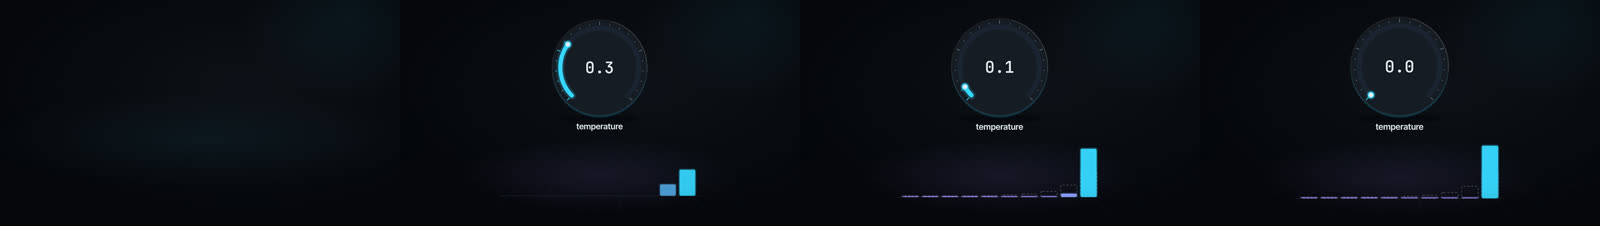
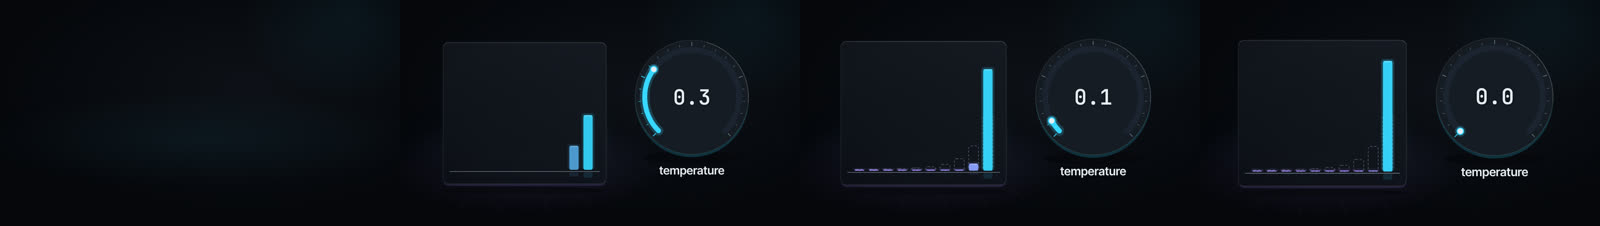
P7 dom-c: SamplingDial implemented (side-by-side dial + acrylic distribution plate, nucleus cut line, textRect; snap PASS det 0 qa 0, baselines pending-critic; perf lite 0.095 / standard 0.086 / hero 0.089 box s/frame; Arabic QA pass)
Claude-Session: https://claude.ai/code/session_01VrU9wxU8GmuhdhWAAHnnQ8

diff --git a/studio/src/components/SamplingDial/SamplingDial.tsx b/studio/src/components/SamplingDial/SamplingDial.tsx
@@ -72,6 +72,18 @@ export const distribution = (temp: number, topp: number | null): {p: number[]; k
   return {p: pr, kept};
 };
 
+/** Layout shared by the view and textRect (box coordinates). One dial: dial on the start (right) side, distribution plate beside it;
+ * 2-3 dials: dials in a row, the plate under them. */
+const layout = (n: number, W: number, H: number) => {
+  const side = n === 1;
+  const cellW = side ? W * 0.44 : Math.min(W / n, 640);
+  const r = side ? Math.min(H * 0.24, cellW * 0.4) : Math.min(cellW * 0.33, H * 0.17);
+  const cy = side ? H * 0.42 : H * 0.25;
+  const x0 = side ? W * 0.765 - cellW / 2 : (W - cellW * n) / 2;
+  const plate = side ? {x: W * 0.05, y: H * 0.14, w: W * 0.47, h: H * 0.72} : {x: W * 0.19, y: H * 0.58, w: W * 0.62, h: H * 0.36};
+  return {side, cellW, r, cy, x0, plate};
+};
+
 export const SamplingDialView: React.FC<DcProps<Props>> = ({props, ctx}) => {
   const t = ctx.frame;
   const P = pf(ctx);
@@ -79,9 +91,9 @@ export const SamplingDialView: React.FC<DcProps<Props>> = ({props, ctx}) => {
   const W = ctx.box.w;
   const H = ctx.box.h;
   const {v, lastT, dec} = dialValues(props, ctx, t);
-  const cellW = Math.min(W / n, 640);
-  const r = Math.min(cellW * 0.33, H * 0.2);
-  const cy = H * 0.27;
+  const L = layout(n, W, H);
+  const {cellW, r, cy, plate} = L;
+  const k = r / 194;
   const ent = prog(ctx, ctx.at, P.arrive);
   const norm = (i: number) => {
     const pr = props.params[i];
@@ -97,17 +109,63 @@ export const SamplingDialView: React.FC<DcProps<Props>> = ({props, ctx}) => {
   const normOf = (j: number) => clamp01((props.params[j].value.value - props.params[j].min) / Math.max(1e-9, props.params[j].max - props.params[j].min));
   const ghost = turns0.length ? distribution(ti >= 0 ? normOf(ti) : 0.5, pi >= 0 ? normOf(pi) : null) : null;
   const ghostE = turns0.length ? prog(ctx, turns0[0].at, P.label) : 0;
-  const maxP = Math.max(...dist.p);
-  const panelY = H * 0.66;
-  const panelH = H * 0.26;
-  const bw = Math.min(88, (W * 0.56) / LOGITS.length - 18);
-  const bgap = 18;
-  const totalBw = LOGITS.length * (bw + bgap) - bgap;
+  const nb = LOGITS.length;
+  const padX = plate.w * 0.07;
+  const slot = (plate.w - padX * 2) / nb;
+  const bw = slot * 0.66;
+  const base = plate.y + plate.h - plate.h * 0.1;
+  const barH = plate.h * 0.76;
+  const col0 = C.signal;
   return (
     <div style={{...boxStyle(ctx), ...shell(ctx)}}>
-      <Floor gid={`sm-${ctx.id}`} w={W} h={H} y={panelY - 20} color={C.violet} pool={0.1} opacity={ent} />
+      <Floor gid={`sm-${ctx.id}`} w={W} h={H} y={plate.y + plate.h * 0.55} color={C.violet} pool={0.12} cx={plate.x + plate.w / 2} opacity={ent} />
+      {/* distribution plate: acrylic glass with a lit top edge, extruded side and contact shadow (ADR-003 LK-F) */}
+      <div style={{position: 'absolute', left: plate.x, top: plate.y + plate.h + 14, width: plate.w, height: plate.h * 0.05, background: C.void, opacity: 0.55 * ent, borderRadius: '50%'}} />
+      <div
+        style={{
+          position: 'absolute',
+          left: plate.x,
+          top: plate.y,
+          width: plate.w,
+          height: plate.h,
+          borderRadius: 28,
+          background: `linear-gradient(205deg, ${C.panel}F2 0%, ${C.ground}E6 100%)`,
+          border: `2px solid ${C.ink}${hex(0.14)}`,
+          boxShadow: `inset 0 2px 0 ${C.ink}${hex(0.2)}, inset -2px 0 0 ${C.ink}${hex(0.08)}, 0 12px 0 -3px ${mix(C.violet, C.void, 0.8)}`,
+          opacity: ent,
+        }}
+      />
+      <svg width={W} height={H} style={{position: 'absolute', left: 0, top: 0, overflow: 'visible'}}>
+        <path d={`M ${plate.x + padX * 0.6} ${base + 8} L ${plate.x + plate.w - padX * 0.6} ${base + 8}`} stroke={C.ink3} strokeOpacity={0.8} strokeWidth={3} strokeLinecap="round" opacity={ent} />
+        {dist.p.map((pv, i) => {
+          const be = prog(ctx, ctx.at + Math.round(((6 + i) * ctx.fps) / 24), P.label);
+          const h = Math.max(5, pv * barH);
+          const x = plate.x + plate.w - padX - (i + 1) * slot + (slot - bw) / 2; // most likely token on the right (reading start)
+          const col = dist.kept[i] ? mix(C.violet, col0, Math.sqrt(pv / Math.max(1e-9, Math.max(...dist.p)))) : C.ink3;
+          const gh = ghost ? Math.max(5, ghost.p[i] * barH) : 0;
+          return (
+            <g key={i} opacity={be}>
+              {ghost ? <rect x={x - 1} y={base - gh - 1} width={bw + 2} height={gh + 1} rx={10} fill="none" stroke={C.ink2} strokeOpacity={0.55 * ghostE} strokeWidth={2.5} strokeDasharray="10 8" /> : null}
+              {dist.kept[i] ? <rect x={x - 9} y={base - h - 9} width={bw + 18} height={h + 9} rx={14} fill={col} fillOpacity={0.1 + 0.1 * pv} /> : null}
+              <rect x={x} y={base - h} width={bw} height={h} rx={9} fill={col} fillOpacity={dist.kept[i] ? 0.95 : 0.32} />
+              {h > 22 ? <rect x={x + 5} y={base - h + 3} width={bw - 10} height={3} rx={1.5} fill={C.ink} fillOpacity={dist.kept[i] ? 0.45 : 0.15} /> : null}
+              {/* reflection on the plate floor */}
+              <rect x={x} y={base + 12} width={bw} height={Math.min(h * 0.18, 26)} rx={6} fill={col} fillOpacity={dist.kept[i] ? 0.12 : 0.04} />
+            </g>
+          );
+        })}
+        {pi >= 0
+          ? (() => {
+              const kept = dist.kept.filter(Boolean).length;
+              if (kept >= nb) return null;
+              // nucleus cut: a dashed warn line between the last kept bar and the trimmed tail
+              const xc = plate.x + plate.w - padX - kept * slot;
+              return <path d={`M ${xc} ${base - barH} L ${xc} ${base + 8}`} stroke={C.warn} strokeWidth={3} strokeDasharray="12 9" strokeLinecap="round" opacity={ent} />;
+            })()
+          : null}
+      </svg>
       {props.params.map((pr, i) => {
-        const cx = W / 2 + ((n - 1) / 2 - i) * cellW;
+        const cx = L.side ? L.x0 + cellW / 2 : W / 2 + ((n - 1) / 2 - i) * cellW;
         const b = ctx.at + Math.round((3 * i * ctx.fps) / 24);
         const e = prog(ctx, b, P.arrive);
         if (t < b) return null;
@@ -115,60 +173,50 @@ export const SamplingDialView: React.FC<DcProps<Props>> = ({props, ctx}) => {
         const a = A0 + (A1 - A0) * frac;
         const land = lastT[i] !== null ? pulse(t, lastT[i] as number, f24(ctx, 6)) : 0;
         const [kx, ky] = polar(cellW / 2, cy, r, a);
-        const col = mix(C.signal, C.violet, 0);
+        const col = col0;
         const widest = Math.max(pr.value.value, ...acts(ctx, 'turn').filter((x) => x.props.param === i).map((x) => (x.props.to as {value: number}).value));
+        const tw = 24 * k;
         return (
           <div key={i} style={{position: 'absolute', left: cx - cellW / 2, top: 0, width: cellW, height: H, opacity: e}}>
             <svg width={cellW} height={H} style={{position: 'absolute', left: 0, top: 0, overflow: 'visible'}}>
               {/* dial housing: contact shadow, extruded side, glass face with a lit rim */}
-              <ellipse cx={cellW / 2} cy={cy + r + 56} rx={r * 1.0} ry={r * 0.12} fill={C.void} fillOpacity={0.6} />
-              <circle cx={cellW / 2} cy={cy + 10} r={r + 40} fill={mix(col, C.void, 0.8)} />
-              <circle cx={cellW / 2} cy={cy} r={r + 40} fill={`${C.panel}F2`} stroke={`${C.ink}${hex(0.16)}`} strokeWidth={2} />
-              <path d={arcPath(cellW / 2, cy, r + 39, 15, 95)} fill="none" stroke={C.ink} strokeOpacity={0.18} strokeWidth={3} strokeLinecap="round" />
-              <path d={arcPath(cellW / 2, cy, r, A0, A1)} fill="none" stroke={C.grid} strokeWidth={24} strokeLinecap="round" />
+              <ellipse cx={cellW / 2} cy={cy + r + 40 * k + 16} rx={r * 1.05} ry={r * 0.13} fill={C.void} fillOpacity={0.7} />
+              <circle cx={cellW / 2} cy={cy + 12 * k} r={r + 40 * k} fill={mix(col, C.void, 0.8)} />
+              <circle cx={cellW / 2} cy={cy} r={r + 40 * k} fill={`${C.panel}F2`} stroke={`${C.ink}${hex(0.18)}`} strokeWidth={2} />
+              <path d={arcPath(cellW / 2, cy, r + 39 * k, 15, 95)} fill="none" stroke={C.ink} strokeOpacity={0.2} strokeWidth={3} strokeLinecap="round" />
+              <path d={arcPath(cellW / 2, cy, r, A0, A1)} fill="none" stroke={C.grid} strokeWidth={tw} strokeLinecap="round" />
               {frac > 0.004 ? (
                 <>
-                  <path d={arcPath(cellW / 2, cy, r, A0, a)} fill="none" stroke={col} strokeOpacity={0.2 + 0.2 * land} strokeWidth={24 + 14 + 10 * land} strokeLinecap="round" />
-                  <path d={arcPath(cellW / 2, cy, r, A0, a)} fill="none" stroke={col} strokeWidth={20} strokeLinecap="round" />
+                  <path d={arcPath(cellW / 2, cy, r, A0, a)} fill="none" stroke={col} strokeOpacity={0.2 + 0.2 * land} strokeWidth={tw + 16 * k + 10 * land} strokeLinecap="round" />
+                  <path d={arcPath(cellW / 2, cy, r, A0, a)} fill="none" stroke={col} strokeWidth={tw * 0.84} strokeLinecap="round" />
                 </>
               ) : null}
-              {Array.from({length: 21}, (_, k) => {
-                const ta = A0 + ((A1 - A0) * k) / 20;
-                const major = k % 5 === 0;
-                const [ax, ay] = polar(cellW / 2, cy, r + 17, ta);
-                const [bx, by] = polar(cellW / 2, cy, r + (major ? 31 : 25), ta);
-                return <path key={`tk${k}`} d={`M ${ax.toFixed(1)} ${ay.toFixed(1)} L ${bx.toFixed(1)} ${by.toFixed(1)}`} stroke={ta <= a + 0.01 ? col : C.ink3} strokeOpacity={ta <= a + 0.01 ? 0.9 : 0.7} strokeWidth={major ? 4 : 2.5} strokeLinecap="round" />;
+              {Array.from({length: 21}, (_, q) => {
+                const ta = A0 + ((A1 - A0) * q) / 20;
+                const major = q % 5 === 0;
+                const [ax, ay] = polar(cellW / 2, cy, r + 17 * k, ta);
+                const [bx, by] = polar(cellW / 2, cy, r + (major ? 31 : 25) * k, ta);
+                return <path key={`tk${q}`} d={`M ${ax.toFixed(1)} ${ay.toFixed(1)} L ${bx.toFixed(1)} ${by.toFixed(1)}`} stroke={ta <= a + 0.01 ? col : C.ink3} strokeOpacity={ta <= a + 0.01 ? 0.9 : 0.7} strokeWidth={major ? 4 : 2.5} strokeLinecap="round" />;
               })}
-              <circle cx={kx} cy={ky} r={22} fill={col} fillOpacity={0.2 + 0.2 * land} />
-              <circle cx={kx} cy={ky} r={13} fill={C.ink} stroke={col} strokeWidth={5} />
+              <circle cx={kx} cy={ky} r={22 * k} fill={col} fillOpacity={0.2 + 0.2 * land} />
+              <circle cx={kx} cy={ky} r={13 * k} fill={C.ink} stroke={col} strokeWidth={5} />
             </svg>
-            <div style={{position: 'absolute', left: 0, right: 0, top: cy - SIZE.numberBig * 0.3, display: 'flex', justifyContent: 'center'}}>
-              <NumText id={`${ctx.id}:v${i}`} value={v[i]} target={widest} decimals={dec[i]} unit={pr.value.unit} maxW={r * 1.5} size={SIZE.numberBig * 0.55} color={C.ink} glow={land > 0 ? `0 0 ${(ctx.fx.glowPx * land).toFixed(1)}px ${col}${hex(0.6)}` : undefined} />
+            <div style={{position: 'absolute', left: 0, right: 0, top: cy - SIZE.numberBig * (L.side ? 0.4 : 0.3), display: 'flex', justifyContent: 'center'}}>
+              <NumText id={`${ctx.id}:v${i}`} value={v[i]} target={widest} decimals={dec[i]} unit={pr.value.unit} maxW={r * 1.5} size={SIZE.numberBig * (L.side ? 0.72 : 0.55)} color={C.ink} glow={land > 0 ? `0 0 ${(ctx.fx.glowPx * land).toFixed(1)}px ${col}${hex(0.6)}` : undefined} />
             </div>
-            <div style={{position: 'absolute', left: 0, width: cellW, top: cy + r + 66, display: 'flex', justifyContent: 'center'}}>
-              <Lbl id={`${ctx.id}:l${i}`} text={pr.label} maxW={cellW * 0.9} maxH={SIZE.body * 1.6} size={SIZE.body} fps={ctx.fps} color={C.ink} weight={FONT.label.strong} />
+            <div style={{position: 'absolute', left: 0, width: cellW, top: cy + r + 40 * k + 40, display: 'flex', justifyContent: 'center'}}>
+              <Lbl id={`${ctx.id}:l${i}`} text={pr.label} maxW={cellW * 0.9} maxH={SIZE.sub * 1.6} size={L.side ? SIZE.sub : SIZE.body} fps={ctx.fps} color={C.ink} weight={FONT.label.strong} />
             </div>
           </div>
         );
       })}
-      <svg width={W} height={H} style={{position: 'absolute', left: 0, top: 0, overflow: 'visible'}}>
-        <path d={`M ${W / 2 - totalBw / 2 - 20} ${panelY + panelH} L ${W / 2 + totalBw / 2 + 20} ${panelY + panelH}`} stroke={C.grid} strokeWidth={3} strokeLinecap="round" opacity={ent} />
-        {dist.p.map((pv, i) => {
-          const be = prog(ctx, ctx.at + Math.round(((6 + i) * ctx.fps) / 24), P.label);
-          const h = Math.max(4, pv * panelH);
-          const x = W / 2 + totalBw / 2 - (i + 1) * bw - i * bgap; // most likely token on the right (reading start)
-          const col = dist.kept[i] ? mix(C.violet, C.signal, Math.sqrt(pv / maxP)) : C.ink3;
-          const gh = ghost ? Math.max(4, ghost.p[i] * panelH) : 0;
-          return (
-            <g key={i} opacity={be}>
-              {ghost ? <rect x={x - 1} y={panelY + panelH - gh - 1} width={bw + 2} height={gh + 1} rx={9} fill="none" stroke={C.ink2} strokeOpacity={0.55 * ghostE} strokeWidth={2.5} strokeDasharray="10 8" /> : null}
-              <rect x={x - 5} y={panelY + panelH - h - 5} width={bw + 10} height={h + 5} rx={10} fill={col} fillOpacity={dist.kept[i] ? 0.16 + 0.1 * (pv / maxP) : 0.06} />
-              <rect x={x} y={panelY + panelH - h} width={bw} height={h} rx={8} fill={col} fillOpacity={dist.kept[i] ? 0.95 : 0.35} />
-            </g>
-          );
-        })}
-      </svg>
     </div>
   );
 };
-export const SamplingDial: DcComponent<Props> = {name: 'SamplingDial', Component: SamplingDialView, text: true, slot: 'full'};
+const textRect = (p: Props, b: {x: number; y: number; w: number; h: number}) => {
+  const n = p.params.length;
+  const L = layout(n, b.w, b.h);
+  const x0 = L.side ? L.x0 : (b.w - L.cellW * n) / 2;
+  return {x: b.x + x0, y: b.y + L.cy - L.r * 0.5, w: L.cellW * n, h: L.r * 2.3};
+};
+export const SamplingDial: DcComponent<Props> = {name: 'SamplingDial', Component: SamplingDialView, text: true, slot: 'full', textRect};

diff --git a/docs/p7/catalog_status/dom-c.md b/docs/p7/catalog_status/dom-c.md
@@ -8,3 +8,4 @@
 | IdempotentStamp | implemented | One idempotency key (chip from props, Latin code isolate) rides on every delivery: envelopes with the key glyph leave the sender outbox (start side, right) along a lane onto a ledger page. The FIRST delivery is written: a rubber stamp (acrylic handle + base, contact shadow closing on the page) comes down on the impact preset, leaves a green seal and fills ONE ledger row, then lifts and fades. Every later delivery with the same key reaches the seal, is recognised (warn ring + an equals mark pulse once), a dashed ghost row under the entry tries to appear and dissolves, and the envelope rebounds: never a second seal or row. Pips under the page count deliveries (ok = stamped, warn ring = absorbed duplicate), no digits. No `replay`: all `attempts` run 16 film frames apart; each `replay` re-sends attempts-1 duplicates (cap 16 pips in total). Light per ADR-003 LK-F. 2D DOM + SVG, no filter and no WebGL, so hero = standard. Demo = NilePay receipt T5 (d:5.2:5) retried with one key, attempts 3; the key is an identifier, not a shown number. `textRect` = the key chip. Baselines pending-critic. Snap PASS det 0 qa 0. Perf box s/frame at 3 slots: lite 0.071, standard 0.108, hero 0.107 (budgets 0.201 / 0.201 / 1.038). Arabic QA pass (1 Latin string; the component carries no Arabic copy). Distinct from RaceCondition (shared counter, lost update) and SagaChain (compensation). |
 | KAnonBlur | implemented | A table of `rows` (1-24) rows: a masked identifier column (four larger dots on a masked chip, RTL: right) plus one column per quasi-identifier (labels from props, 1-4). Every quasi cell starts as a sharp, unique warn mark; a warn linkage reticle hops row to row (a lone row can be re-identified by joining the quasi-identifiers with an outside list). `generalize` blurs the columns one after another (3 film frames apart): the sharp mark widens into a feathered band shared by its group (wider multi-layer halo), then the rows slide into floor(rows / k) groups of at least k identical rows (sizes differ by at most one), each closed by an ok bracket on the end side, offset clear of the plate with a glow; the plate grows with the rows that have arrived. Light per ADR-003 LK-F (acrylic plate, receding floor, coloured pool). 2D DOM + SVG, no CSS blur or SVG filter, so hero = standard. Cells carry no digits: k and rows are structural props with no ref, so the narration's k is shown by a NumberCounter / TermChip layer. Demo = CH-28 (d:6.9:1..3): nine rows, k = 2, quasi-identifiers age, city, account type. Baselines pending-critic. Snap PASS det 0 qa 0. Critic round 1 non-blocking items 3-6 applied (bigger masked chip, offset glowing brackets, wider feather, plate sized to arrived rows); baselines pending-critic again. Perf box s/frame at 3 slots: lite 0.072, standard 0.092, hero 0.093 (budgets 0.201 / 0.201 / 1.038). Arabic QA pass (3 strings, OCR 3/3 exact). Distinct from TableGrid (static table) and RowFunnel (row count filter). |
 | SplitDeck | implemented | A face-down deck of 50 cards (top centre) is dealt into 2-4 piles (split 1 on the right), one per split, label (whole word, colour per pile) + share number under it. `deal`: cards fly one per film frame from the deal word in a seeded shuffled order (`random(seed)`, never sorted), each turns face up to its pile colour in flight (the turn changes the box width, no scaleX transform) and lands on an extruded stack whose edge lines are the cards, so a pile's height is its share; the undealt remainder (shares summing below 100 %) stays in the deck. Cards = 50 apportioned by largest remainder. Light per ADR-003 LK-F (specular top edge and lit right edge as gradient layers, contact shadow, coloured floor pool, receding floor). 2D DOM, no filter and no WebGL, so hero = standard. Demo = CH-30 study-time split (35 % SQL, 25 % Python, 20 % AI concepts, 10 % Java CRUD; s:S4:P25:0052 / 0053; the 10 % practical projects stay in the deck). The ML train / validation / test shares are not in the corpus (data gap), so the demo shows no invented split. `textRect` = the label band. Engine note: `box-shadow: inset` and a scaleX-flipped card both flaked the 50 % determinism check with tile-seam differences (~1,180 px, intermittent, the same box-wide flake as TreeView / PageScan); `--approve` passed on retry with det 0. Baselines pending-critic. Snap PASS det 0 qa 0. Critic round 1 non-blocking items 1/4/5 applied (card width cap 250 and 0.5 x spacing, share unit 0.7 x numeral via a backward-compatible `NumText.unitScale`, AI pile in `ok` green instead of ink); baselines re-written pending-critic, det 0. Perf box s/frame at 3 slots: lite 0.081, standard 0.103, hero 0.102 (budgets 0.201 / 0.201 / 1.038). Arabic QA pass (4 strings, OCR 1/1 exact). Distinct from BarStack (value bars) and ABSplit (two-arm split). |
+| SamplingDial | implemented | 1-3 dials (param 1 on the right): a 270-degree glass dial (extruded housing, lit rim, contact shadow, ADR-003 LK-F) with a value arc, knob, 21 bare ticks (no scale numerals: only the spoken value is a shown number, Num.ref) and the mono value in the centre; label under it as one whole element. A next-token distribution (10 bars, unlabelled illustration, not data) on an acrylic plate is driven by the dials: the first dial is the temperature (low = one tall bar, high = flat), a dial labelled top-p / nucleus trims the tail (dim bars, dashed warn cut line, kept bars renormalise). `turn {param, to}`: the dial rotates and the value rolls from the turn word to its end (lands on the word end, first visible step on the anchor frame), the bars reshape continuously and a dashed outline keeps the "before" shape. One dial lays out beside the plate (dial on the start/right side); 2-3 dials sit in a row above it. 2D DOM + SVG, no filter and no WebGL, so hero = standard. Demo = CH-35 temperature 0.3 (s:S4:P22:0085) turned to 0 (s:S4:P23:0062); top-p has no spoken value in the corpus, so the demo shows no invented top-p number. `textRect` = dial value + label. Baselines pending-critic. Snap PASS det 0 qa 0. Perf box s/frame at 3 slots: lite 0.095, standard 0.086, hero 0.089 (budgets 0.201 / 0.201 / 1.038). Arabic QA pass (1 Latin string, no Arabic copy). Distinct from BarStack (value bars) and QualityGauges (gate dials, no distribution). |
